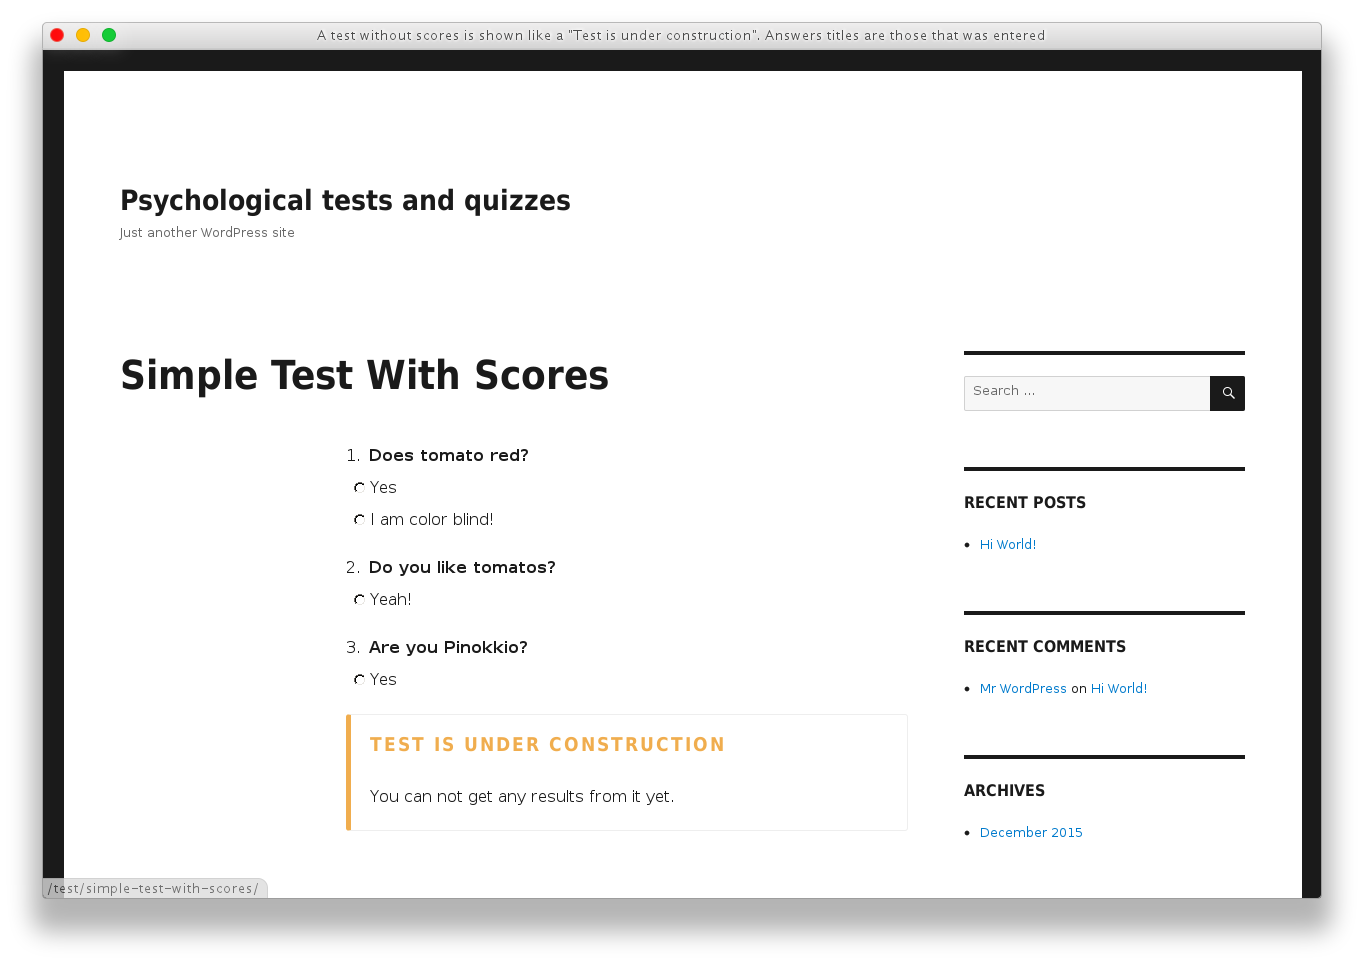
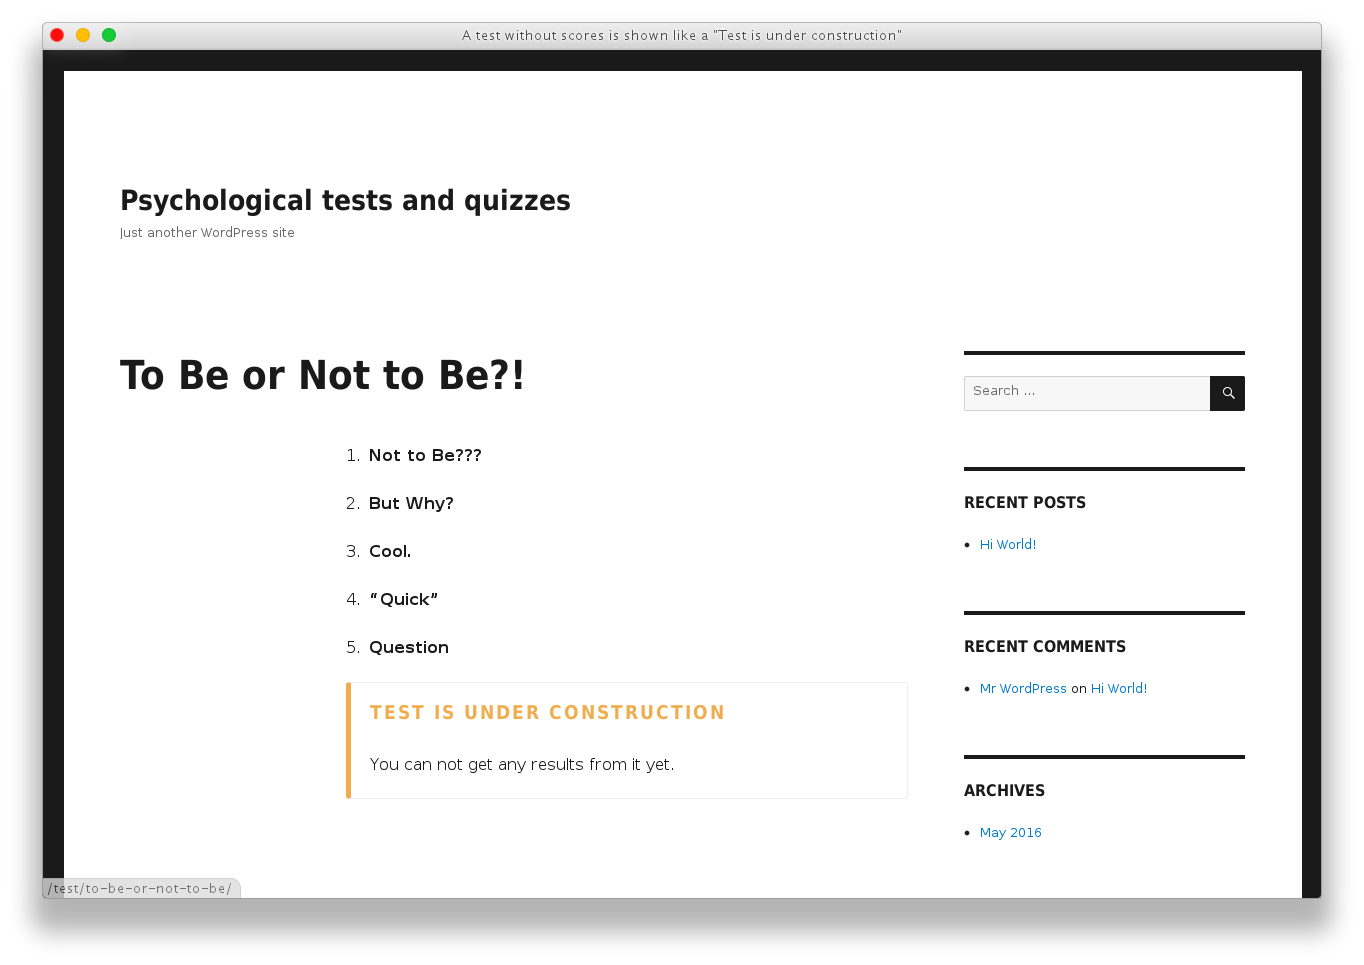
Update screenshots: texts and coordinates

diff --git a/tools/screenshots/create-screenshots.js b/tools/screenshots/create-screenshots.js
@@ -62,7 +62,7 @@ var screenshots = [
            })
        }
    }, {
-       title   : 'There are fast access buttons like "Add New Questions" at the top of the page. Test page and results page can be customized from sidebar',
+       title   : 'There are fast access buttons like "Edit Questions and Answers" at the top of the page. Test page and results page can be customized from sidebar',
        actions : function () {
            casper.thenOpen('http://wpti.dev:8000/wp-admin/edit.php?post_type=wpt_test', function() {
                this.evaluate(function() {
@@ -83,22 +83,21 @@ var screenshots = [
            })
        }
    }, {
-       title   : 'Here we can see "Edit Questions and Scores" box where every scale has a sum of scores. Also we can add to each question individual answers. The choise of answers and scales is available in the sidebar. They can be reordered by drag-n-drop.',
+       title   : 'Under "Edit Scores" every scale has a sum of scores. At "Edit Questions and Answers" box we can add to each question individual answers. The choise of answers and scales is available in the sidebar. They can be reordered by drag-n-drop',
        offset  : 1050 - 175,
        actions : function () {
            casper.then(hideEditorMetaboxes)
        }
    }, {
-       title   : 'The "Quick Fill Scores" box is opened that allows us quickly enter scores from the questions separated by commas. "Add Individual Answers" box also opened but it tells us to use "Test Answers" in case when answers are same',
-       offset  : 1050 - 175,
+       title   : 'The "Quick Fill Scores" box allows us quickly enter scores from the questions separated by commas',
+       offset  : 2000,
        actions : function () {
            casper.then(function() {
-               this.clickLabel('Quick Fill Scores')
-               this.clickLabel('Add Individual Answers')
+
            })
        }
     }, {
-        title   : 'Fast adding questions from text',
+        title   : 'Fast adding questions from text. Some boxes could be maximized, which helps in case of huge lists or tables',
         offset  : 900,
         actions : function () {
             casper.thenOpen('http://wpti.dev:8000/wp-admin/edit.php?post_type=wpt_test', function() {
@@ -106,28 +105,36 @@ var screenshots = [
             }).waitForUrl(/action=edit/, hideEditorMetaboxes)
 
             casper.then(function() {
-                this.evaluate(function() {
-                    return jQuery('#wpt_edit_questions.closed').length > 0
-                }) || this.clickLabel('Edit Questions and Scores', 'span')
                 this.clickLabel('Quick Fill From Text', 'a')
-                this.sendKeys('#wpt_quick_fill_questions textarea', [
+                this.evaluate(function() {
+                    jQuery('[ng-controller="EditQuickFillController"] button:last').focus()
+                })
+
+                this.sendKeys('[ng-controller="EditQuickFillController"] textarea', [
                     'Question 1',
                     '2. Question 2',
                     'Next question'
-                ].join('\n'))
+                ].join('\n'), {keepFocus: true})
             })
         }
     }, {
         title   : 'Editing formulas',
-        offset  : 900,
+        offset  : 900 + 350,
         actions : function () {
             casper.then(function() {
-                this.click('#wpt_quick_fill_questions input[type=button]')
+                this.evaluate(function() {
+                    return jQuery('#wpt_edit_scores.closed').length > 0
+                }) || this.clickLabel('Edit Scores', 'span')
+                this.evaluate(function() {
+                    return jQuery('#wpt_quick_fill_scores.closed').length > 0
+                }) || this.clickLabel('Quick Fill Scores', 'span')
+
+                this.clickLabel('Quick Fill From Text', 'button')
             })
         }
     }, {
-        title   : 'The example of the test without scores. Some answers are individual and some are individualized',
-        offset  : 600,
+        title   : 'The example of the test with scores. Some answers are individual and some are individualized',
+        offset  : 640,
         actions : function () {
             casper.thenOpen('http://wpti.dev:8000/wp-admin/edit.php?post_type=wpt_test', function() {
                 this.clickLabel('Simple Test With Scores')
@@ -256,7 +263,16 @@ var screenshots = [
             })
         }
     }, {
-        title   : 'A test without scores is shown like a "Test is under construction". Answers titles are those that was entered',
+        title   : 'A test without scores is shown like a "Test is under construction"',
+        actions : function () {
+            casper.thenOpen('http://wpti.dev:8000/')
+
+            casper.then(function() {
+                this.clickLabel('To Be or Not to Be?!')
+            }).waitForUrl(/to-be/)
+        }
+    }, {
+        title   : 'Answers titles are those that was entered',
         actions : function () {
             casper.thenOpen('http://wpti.dev:8000/')
 

diff --git a/README.md b/README.md
@@ -130,12 +130,12 @@ Most giant are **[feature](https://wordpress.org/tags/wp-testing-feature)**, **[
 ## Screenshots ##
 
 01. Test editing section with menu in admin
-02. There are fast access buttons like "Add New Questions" at the top of the page. Test page and results page can be customized from sidebar
-03. Here we can see "Edit Questions and Scores" box where every scale has a sum of scores. Also we can add to each question individual answers. The choise of answers and scales is available in the sidebar. They can be reordered by drag-n-drop.
-04. The "Quick Fill Scores" box is opened that allows us quickly enter scores from the questions separated by commas. "Add Individual Answers" box also opened but it tells us to use "Test Answers" in case when answers are same
-05. Fast adding questions from text
+02. There are fast access buttons like "Edit Questions and Answers" at the top of the page. Test page and results page can be customized from sidebar
+03. Under "Edit Scores" every scale has a sum of scores. At "Edit Questions and Answers" box we can add to each question individual answers. The choise of answers and scales is available in the sidebar. They can be reordered by drag-n-drop
+04. The "Quick Fill Scores" box allows us quickly enter scores from the questions separated by commas
+05. Fast adding questions from text. Some boxes could be maximized, which helps in case of huge lists or tables
 06. Editing formulas
-07. The example of the test without scores. Some answers are individual and some are individualized
+07. The example of the test with scores. Some answers are individual and some are individualized
 08. Respondents’ test results in admin area. Test link will open test in edit mode and view link allow to see test result
 09. User see own tests results in admin area
 10. Ready test on the home page
@@ -145,10 +145,11 @@ Most giant are **[feature](https://wordpress.org/tags/wp-testing-feature)**, **[
 14. The result page on it`s own URL contains both the result of the test and the scales that create a result
 15. Scale description with "more..." text closed
 16. Scale description with "more..." text opened (after clicking on "more" link)
-17. A test without scores is shown like a "Test is under construction". Answers titles are those that was entered
-18. Test results with scales chart. Hovered scale shows it`s value and title in dynamic tag
-19. In case when scales has different length (possible max total) they are shown as percents
-20. Multiple answers per question are also possible
-21. One question per page also allowed. On first page we see test description, "Next" button and pages counter
-22. On second page description not shown
-23. On last page counter not shown and button changes back to "Get Test Results"
+17. A test without scores is shown like a "Test is under construction"
+18. Answers titles are those that was entered
+19. Test results with scales chart. Hovered scale shows it`s value and title in dynamic tag
+20. In case when scales has different length (possible max total) they are shown as percents
+21. Multiple answers per question are also possible
+22. One question per page also allowed. On first page we see test description, "Next" button and pages counter
+23. On second page description not shown
+24. On last page counter not shown and button changes back to "Get Test Results"
